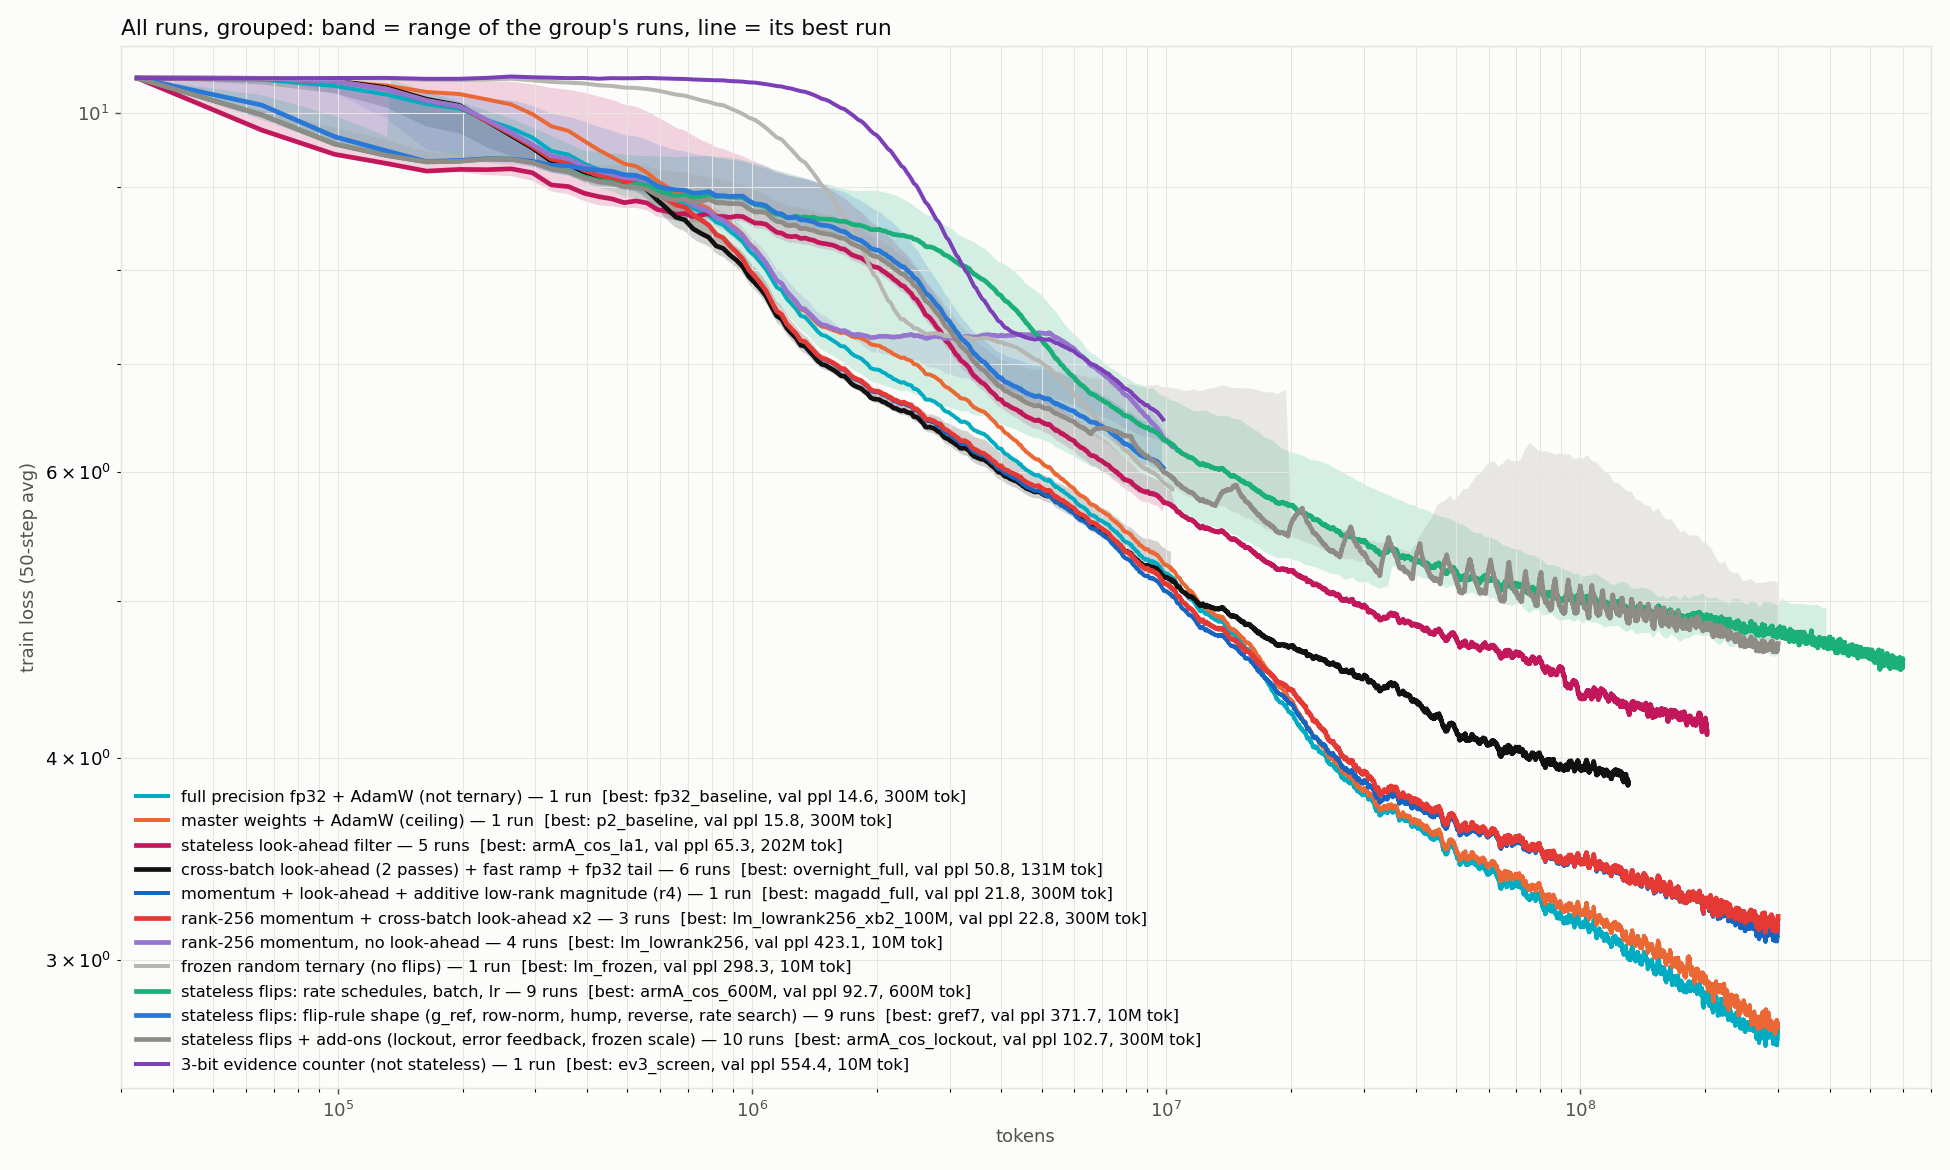
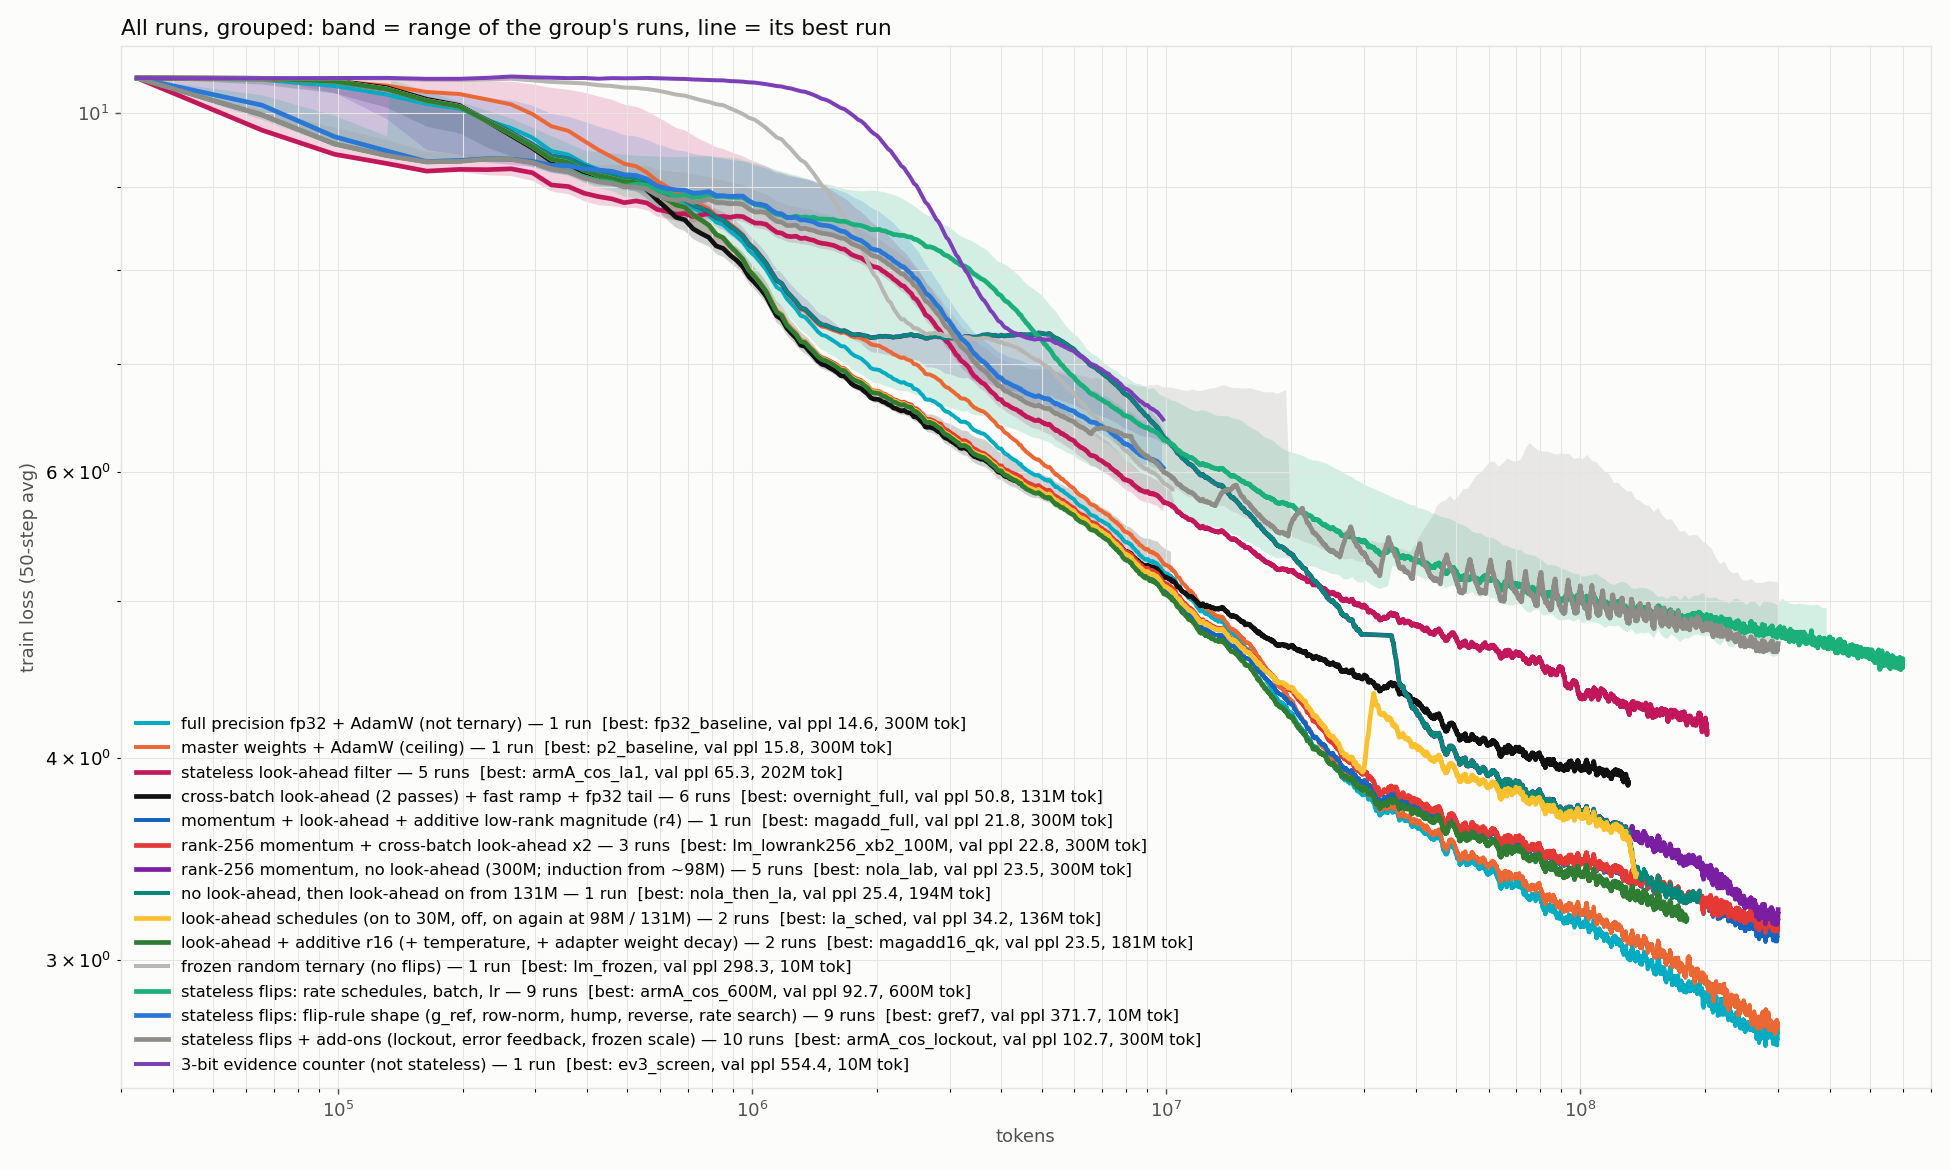
Copy analyses (natural vs random text, loss split by token type), plateau analysis, all-runs and induction figures updated

diff --git a/scripts/analysis/copy_split.py b/scripts/analysis/copy_split.py
@@ -1,0 +1,58 @@
+"""Where does each model's validation loss come from? Per-token loss on 24 validation sequences of 2048 tokens,
+split by whether the pair (current token, next token) already occurred earlier in the context (copyable) and by
+how predictable the next token is from corpus bigram statistics alone, p(next | current) from 50M training tokens:
+  copy-rare     copyable and p < 0.01: only the context can explain it (what an induction head is for)
+  copy-common   copyable and p >= 0.01: bigram statistics predict it anyway
+  other-rare / other-common   the same split for non-copyable tokens
+  python -m scripts.analysis.copy_split [only-run-substring]"""
+import os, sys, numpy as np, torch, torch.nn.functional as F
+from scripts.analysis.induction_heads import load
+from bitnet.train import get_batch
+
+RUNS = [("master, 164M", "checkpoints/curve_master/ckpt_5000.pt", "master", ""),
+        ("master, 98M", "checkpoints/curve_master/ckpt_3000.pt", "master", ""),
+        ("no LA then LA at 131M, 164M", "checkpoints/nola_then_la/ckpt_5000.pt", "kernel", ""),
+        ("no look-ahead, 164M", "checkpoints/nola_lab/ckpt_5000.pt", "kernel", ""),
+        ("look-ahead + additive r4, 164M", "checkpoints/magadd_full/ckpt_5000.pt", "kernel", "add"),
+        ("no look-ahead, 295M", "checkpoints/nola_lab/ckpt_9000.pt", "kernel", ""),
+        ("look-ahead + additive r4, 295M", "checkpoints/magadd_full/ckpt_9000.pt", "kernel", "add")]
+val = np.memmap("data/wiki32k_val.bin", dtype=np.uint16, mode="r")
+XY = [get_batch(val, 4, 2048, "cuda", torch.Generator().manual_seed(21 + i)) for i in range(6)]
+tr = np.memmap("data/wiki32k_train.bin", dtype=np.uint16, mode="r")[:50_000_000].astype(np.int64)
+uni = np.bincount(tr, minlength=32000).astype(np.float64)
+pu, pc = np.unique(tr[:-1] * 32000 + tr[1:], return_counts=True)
+def pbi(x, y):
+    k = x * 32000 + y; i = np.searchsorted(pu, k); i = np.minimum(i, len(pu) - 1)
+    c = np.where(pu[i] == k, pc[i], 0)
+    return c / np.maximum(uni[x], 1)
+masks = []
+for x, y in XY:
+    M = torch.zeros_like(y, dtype=torch.bool)
+    for b in range(x.shape[0]):
+        seen = set(); xs, ys = x[b].tolist(), y[b].tolist()
+        for t in range(len(xs)):
+            if (xs[t], ys[t]) in seen: M[b, t] = True
+            seen.add((xs[t], ys[t]))
+    P = torch.from_numpy(pbi(x.cpu().numpy(), y.cpu().numpy())).to(M.device)
+    masks.append({"copy-rare": M & (P < 0.01), "copy-common": M & (P >= 0.01),
+                  "other-rare": ~M & (P < 0.01), "other-common": ~M & (P >= 0.01)})
+K = list(masks[0])
+tot = sum(int(m[K[0]].numel()) for m in masks)
+print("share of tokens: " + "  ".join(f"{k} {100 * sum(int(m[k].sum()) for m in masks) / tot:.1f}%" for k in K))
+print(f"{'model':32s} {'all':>7s} " + " ".join(f"{k:>12s}" for k in K))
+only = sys.argv[1] if len(sys.argv) > 1 else ""
+for name, path, kind, mag in RUNS:
+    if only and only not in name: continue
+    if not os.path.exists(path): print(f"{name:32s} (missing {path})"); continue
+    os.environ["MAG_KIND"] = mag or "add"
+    s, m, V = load(path, kind)
+    parts = {k: [] for k in K}; allv = []
+    for (x, y), M in zip(XY, masks):
+        with torch.no_grad(), torch.autocast("cuda", dtype=torch.bfloat16):
+            lp = torch.cat([F.cross_entropy(m(x[i:i + 1])[0].float().transpose(1, 2), y[i:i + 1], reduction="none")
+                            for i in range(x.shape[0])])
+        allv.append(lp.flatten())
+        for k in K: parts[k].append(lp[M[k]])
+    print(f"{name:32s} {float(torch.cat(allv).mean()):7.3f} " +
+          " ".join(f"{float(torch.cat(parts[k]).mean()):12.3f}" for k in K), flush=True)
+    del m; torch.cuda.empty_cache()

diff --git a/scripts/analysis/plateau.py b/scripts/analysis/plateau.py
@@ -1,0 +1,49 @@
+"""The no-look-ahead unigram plateau: per snapshot of a run, on 8 validation sequences,
+  full      model loss
+  direct    loss with every block skipped (embedding -> final norm -> tied head)
+  -blk i    loss with block i skipped (how much that block contributes)
+  contrib   rms of the blocks' total residual contribution relative to the embedding's rms
+  trits     share of trits changed since the previous snapshot
+  python -m scripts.analysis.plateau RUN_DIR [kernel|master]"""
+import sys, glob, re, numpy as np, torch
+from scripts.analysis.induction_heads import load
+from bitnet.flip import KernelTernaryLinear
+from bitnet.kernel import unpack_rows
+from bitnet.train import get_batch
+
+run, kind = sys.argv[1], (sys.argv[2] if len(sys.argv) > 2 else "kernel")
+val = np.memmap("data/wiki32k_val.bin", dtype=np.uint16, mode="r")
+XY = [get_batch(val, 4, 2048, "cuda", torch.Generator().manual_seed(11 + i)) for i in range(2)]
+paths = sorted(glob.glob(f"{run}/ckpt_*.pt"), key=lambda p: int(re.findall(r"ckpt_(\d+)", p)[0]))
+prev = None
+
+
+def loss(m, skip=()):
+    orig = {}
+    for i in skip:
+        orig[i] = m.layers[i].forward
+        m.layers[i].forward = lambda h, fc, ckpt=False: h
+    with torch.no_grad(), torch.autocast("cuda", dtype=torch.bfloat16):
+        L = float(np.mean([m(x, y)[1].item() for x, y in XY]))
+    for i, f in orig.items(): m.layers[i].forward = f
+    return L
+
+
+for p in paths:
+    s, m, V = load(p, kind)
+    n = len(m.layers)
+    full, direct = loss(m), loss(m, range(n))
+    per = [loss(m, [i]) - full for i in range(n)]
+    x = XY[0][0]
+    with torch.no_grad(), torch.autocast("cuda", dtype=torch.bfloat16):
+        e = m.tok_emb(x).float(); h = e.to(torch.bfloat16); fc = m.freqs_cis
+        for layer in m.layers: h = layer(h, fc)
+        contrib = ((h.float() - e).pow(2).mean().sqrt() / e.pow(2).mean().sqrt()).item()
+    T = [unpack_rows(l.wpacked, l.K).to(torch.int8) for l in m.modules() if isinstance(l, KernelTernaryLinear)] \
+        if kind == "kernel" else None
+    ch = "" if prev is None or T is None else \
+        f"{100 * sum(int((a != b).sum()) for a, b in zip(T, prev)) / sum(a.numel() for a in T):5.2f}%"
+    prev = T
+    print(f"step {s:4d} ({(s + 1) * 32768 / 1e6:4.1f}M)  full {full:.3f}  direct {direct:.3f}  "
+          f"contrib/emb {contrib:6.2f}  trits changed {ch:>6s}  |  skip-block dL: " + " ".join(f"{d:+.2f}" for d in per), flush=True)
+    del m; torch.cuda.empty_cache()

diff --git a/scripts/analysis/copy_natural.py b/scripts/analysis/copy_natural.py
@@ -1,0 +1,39 @@
+"""Ordered copying on natural text vs random tokens: a 64-token segment followed by its exact repeat or a shuffled
+repeat; gain = loss on the first copy minus loss on the repeat (tokens 2..64). Random: tokens uniform in
+[1000, V-1000] (the induction tracker's test). Natural: real validation segments.
+  python -m scripts.analysis.copy_natural"""
+import os, numpy as np, torch, torch.nn.functional as F
+from scripts.analysis.induction_heads import load
+
+RUNS = [("master, 164M", "checkpoints/curve_master/ckpt_5000.pt", "master", ""),
+        ("no LA then LA at 131M, 164M", "checkpoints/nola_then_la/ckpt_5000.pt", "kernel", ""),
+        ("look-ahead + additive r4, 164M", "checkpoints/magadd_full/ckpt_5000.pt", "kernel", "add"),
+        ("look-ahead + additive r4, 295M", "checkpoints/magadd_full/ckpt_9000.pt", "kernel", "add"),
+        ("look-ahead baseline, 300M", "checkpoints/lm_lowrank256_xb2_100M/ckpt.pt", "kernel", ""),
+        ("no look-ahead, 295M", "checkpoints/nola_lab/ckpt_9000.pt", "kernel", "")]
+val = np.memmap("data/wiki32k_val.bin", dtype=np.uint16, mode="r")
+g = np.random.default_rng(5)
+nat = torch.from_numpy(np.stack([val[i:i + 64].astype(np.int64) for i in g.integers(0, len(val) - 64, 128)])).cuda()
+
+
+def gains(m, seg):
+    out = []
+    for shuf in (False, True):
+        gen = torch.Generator().manual_seed(1)
+        r2 = seg[:, torch.randperm(64, generator=gen).cuda()] if shuf else seg
+        x = torch.cat([seg, r2], 1)
+        with torch.no_grad(), torch.autocast("cuda", dtype=torch.bfloat16):
+            lp = torch.cat([F.cross_entropy(m(x[i:i + 16, :-1])[0].float().transpose(1, 2), x[i:i + 16, 1:],
+                                            reduction="none") for i in range(0, x.shape[0], 16)])
+        out.append((lp[:, :63].mean() - lp[:, 64:].mean()).item())
+    return out
+
+
+print(f"{'model':32s} {'random: exact':>13s} {'shuffled':>9s} {'ordered':>8s} | {'natural: exact':>14s} {'shuffled':>9s} {'ordered':>8s}")
+for name, path, kind, mag in RUNS:
+    os.environ["MAG_KIND"] = mag or "add"
+    s, m, V = load(path, kind)
+    rnd = torch.from_numpy(np.random.default_rng(7).integers(1000, V - 1000, (128, 64))).cuda()
+    re_, rs = gains(m, rnd); ne, ns = gains(m, nat)
+    print(f"{name:32s} {re_:13.3f} {rs:9.3f} {re_ - rs:8.3f} | {ne:14.3f} {ns:9.3f} {ne - ns:8.3f}", flush=True)
+    del m; torch.cuda.empty_cache()

diff --git a/scripts/plots/plot_all.py b/scripts/plots/plot_all.py
@@ -25,8 +25,13 @@ GROUPS = [
     ("momentum + look-ahead + additive low-rank magnitude (r4)", "#1565c0", "magadd_full", ["magadd_full"]),
     ("rank-256 momentum + cross-batch look-ahead x2", "#e53935", "lm_lowrank256_xb2_100M",
      ["lm_lowrank256_xb2_100M", "lm_lowrank256_xb2", "lm_lowrank256_adapt_xb2"]),
-    ("rank-256 momentum, no look-ahead", "#9575cd", "lm_lowrank256",
-     ["lm_lowrank256", "lm_lowrank256_r04", "lm_lowrank256_r1", "lm_lowrank256_adapt"]),
+    ("rank-256 momentum, no look-ahead (300M; induction from ~98M)", "#7b1fa2", "nola_lab",
+     ["nola_lab", "lm_lowrank256", "lm_lowrank256_r04", "lm_lowrank256_r1", "lm_lowrank256_adapt"]),
+    ("no look-ahead, then look-ahead on from 131M", "#00897b", "nola_then_la", ["nola_then_la"]),
+    ("look-ahead schedules (on to 30M, off, on again at 98M / 131M)", "#fbc02d", "la_sched",
+     ["la_sched", "la_sched98"]),
+    ("look-ahead + additive r16 (+ temperature, + adapter weight decay)", "#2e7d32", "magadd16_qk",
+     ["magadd16_qk", "magadd16_wd_qk", "magadd16_qk_lab", "magadd16_wd_qk_lab"]),
     ("frozen random ternary (no flips)", "#b8b6b0", "lm_frozen", ["lm_frozen"]),
     ("stateless flips: rate schedules, batch, lr", "#1baf7a", "armA_cos_600M",
      ["armA_cosine", "armA_cos_600M", "armA_linear", "armA_cos_r005", "armA_cos_floor",

diff --git a/scripts/plots/plot_induction_text.py b/scripts/plots/plot_induction_text.py
@@ -20,7 +20,7 @@ STY = {  # run: (label, color, width)
 d = json.load(open("checkpoints/induction_track.json"))
 fig, (v, a, b) = plt.subplots(1, 3, figsize=(20, 5.6))
 for run, (lab, c, lw) in STY.items():
-    f = f"checkpoints/{run}/metrics.jsonl"
+    f = f"checkpoints/{'p2_baseline' if run == 'curve_master' else run}/metrics.jsonl"   # master's val: the 300M run
     if os.path.exists(f):
         rows = [json.loads(l) for l in open(f)]
         V = sorted({r["step"]: r["val_loss"] for r in rows if "val_loss" in r}.items())
@@ -32,7 +32,7 @@ for run, (lab, c, lw) in STY.items():
     t = [x["tokens"] / 1e6 for x in R]
     a.plot(t, [x["induction"] for x in R], "o-", color=c, lw=lw, ms=4, label=lab)
     b.plot(t, [x["shuffled"] for x in R], "o-", color=c, lw=lw, ms=4, label=lab)
-v.set(xlabel="tokens (M)", ylabel="val loss", title="Validation loss", ylim=(2.8, 4.2), xlim=(30, 310))
+v.set(xlabel="tokens (M)", ylabel="val loss", title="Validation loss", ylim=(2.65, 4.2), xlim=(30, 310))
 a.set(xlabel="tokens (M)", ylabel="nats", title="Ordered copying (induction): exact - shuffled repeat gain")
 b.set(xlabel="tokens (M)", ylabel="nats", title="Seen-token boost: gain on a shuffled repeat")
 for ax in (v, a, b): ax.grid(alpha=0.3)
